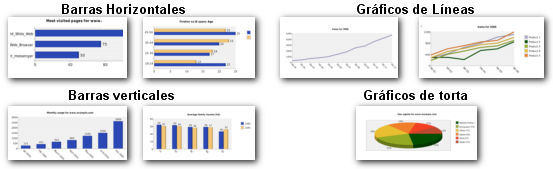
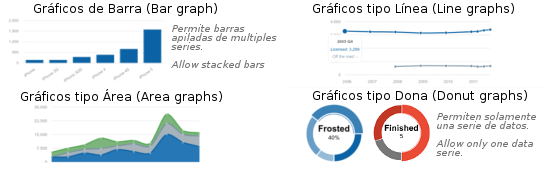
Modulo graficos. Personalizacion

diff --git a/core/informes.php b/core/informes.php
@@ -1404,9 +1404,8 @@ if ($PCO_Accion=="editar_informe")
 					<input type="Hidden" name="informe" value="<?php echo $informe; ?>">
 
 				<!-- SELECCION DE SERIES  @@@@@@@@@@@@@@@@@@@@@@@@@@@@@@@@@@@@@@@@@@@@@@@@@@@@@@@@@@@@@ -->
-				<hr>
 				<div align=center><b><?php echo $MULTILANG_InfSeriesGrafico1; ?></b> - <?php echo $MULTILANG_InfSeriesGrafico2; ?></div>
-						<table class="TextosVentana" width="100%">
+						<table class="table table-condensed btn-xs table-hover table-unbordered " width="100%">
 						<?php
 							//Consulta el formato de grafico y datos de series para ponerlo en los campos
 							//Dado por: Tipo|Nombre1!NombreN|Etiqueta1!EtiquetaN|Valor1!ValorN|
@@ -1425,12 +1424,17 @@ if ($PCO_Accion=="editar_informe")
 						?>
 							<tr>
 								<td align="center" valign="TOP">
-									<b><?php echo $MULTILANG_InfNomSerie?> <?php echo $cs; ?></b><br>
-									<input type="text" name="nombre_serie_<?php echo $cs; ?>" value="<?php echo @$lista_nombre_series[$cs-1]; ?>" maxlength="20" size="20" class="CampoTexto">
+									<label for="nombre_serie_<?php echo $cs; ?>"><?php echo $MULTILANG_InfNomSerie; ?> <?php echo $cs; ?>:</label>
+									<input type="text" name="nombre_serie_<?php echo $cs; ?>" id="nombre_serie_<?php echo $cs; ?>" value="<?php echo @$lista_nombre_series[$cs-1]; ?>" maxlength="20" size="20" class="form-control input-sm">
 								</td>
 								<td align="center" valign="TOP">
-									<b><?php echo $MULTILANG_InfCampoEtiqSerie; ?></b><br>
-									<select name="campo_etiqueta_serie_<?php echo $cs; ?>" class="Combos" >
+									<?php
+									    //La etiqueta de eje X es unica por todas las series entonces la pregunta solo para la primera
+									    if ($cs==1)
+									        {
+									?>
+									<label for="campo_etiqueta_serie_<?php echo $cs; ?>"><?php echo $MULTILANG_InfCampoEtiqSerie; ?>:</label>
+									<select name="campo_etiqueta_serie_<?php echo $cs; ?>" id="campo_etiqueta_serie_<?php echo $cs; ?>" class="form-control input-sm btn-info" >
 										<option value=""></option>
 										<?php
 										$consulta_forms=ejecutar_sql("SELECT id,".$ListaCamposSinID_informe_campos." FROM ".$TablasCore."informe_campos WHERE informe=? ","$informe");
@@ -1444,10 +1448,17 @@ if ($PCO_Accion=="editar_informe")
 											}
 									?>
 									</select>
+									<?php
+									        } //Fin $cs==1
+									   else
+									        {
+									            echo '<input type="hidden" name="campo_etiqueta_serie_'.$cs.'">';
+									        }
+									?>
 								</td>
 								<td align="center" valign="TOP">
-									<b><?php echo $MULTILANG_InfCampoValor; ?></b><br>
-									<select name="campo_valor_serie_<?php echo $cs; ?>" class="Combos">
+									<label for="campo_valor_serie_<?php echo $cs; ?>"><?php echo $MULTILANG_InfCampoValor; ?>:</label>
+									<select name="campo_valor_serie_<?php echo $cs; ?>" id="campo_valor_serie_<?php echo $cs; ?>" class="form-control input-sm btn-default" >
 										<option value=""></option>
 									<?php
 										$consulta_forms=ejecutar_sql("SELECT id,".$ListaCamposSinID_informe_campos." FROM ".$TablasCore."informe_campos WHERE informe=? ","$informe");
@@ -1472,33 +1483,53 @@ if ($PCO_Accion=="editar_informe")
 			<!-- SELECCION DEL TIPO DE GRAFICO  @@@@@@@@@@@@@@@@@@@@@@@@@@@@@@@@@@@@@@@@@@@@@@@@@@@@@@@@@@@@@ -->
 				<hr>
 						<div align=center><b><?php echo $MULTILANG_InfVistaGrafico1; ?></b> - <?php echo $MULTILANG_InfVistaGrafico2; ?></div>
-						<table class="TextosVentana">
+						<table class="table table-condensed btn-xs table-unbordered " width="100%">
 							<tr>
 								<td align="LEFT" valign="TOP">
-									<b><?php echo $MULTILANG_InfTipoGrafico; ?>:</b><br>
-									<select name="tipo_grafico" class="Combos" >
-											<option value="barrah" <?php if ($tipo_grafico_leido=="barrah") echo "SELECTED"; ?>><?php echo $MULTILANG_InfGrafico1; ?></option>
-											<option value="barrah_multiples" <?php if ($tipo_grafico_leido=="barrah_multiples") echo "SELECTED"; ?>><?php echo $MULTILANG_InfGrafico2; ?></option>
-											<option value="linea" <?php if ($tipo_grafico_leido=="linea") echo "SELECTED"; ?>><?php echo $MULTILANG_InfGrafico3; ?></option>
-											<option value="linea_multiples" <?php if ($tipo_grafico_leido=="linea_multiples") echo "SELECTED"; ?>><?php echo $MULTILANG_InfGrafico4; ?></option>
-											<option value="barrav" <?php if ($tipo_grafico_leido=="barrav") echo "SELECTED"; ?>><?php echo $MULTILANG_InfGrafico5; ?></option>
-											<option value="barrav_multiples" <?php if ($tipo_grafico_leido=="barrav_multiples") echo "SELECTED"; ?>><?php echo $MULTILANG_InfGrafico6; ?></option>
-											<option value="torta" <?php if ($tipo_grafico_leido=="torta") echo "SELECTED"; ?>><?php echo $MULTILANG_InfGrafico7; ?></option>
+									<label for="tipo_grafico"><?php echo $MULTILANG_InfTipoGrafico; ?>:</label>
+									<select name="tipo_grafico" id="tipo_grafico" class="form-control input-sm btn-danger" >
+											<option value="area" <?php if ($tipo_grafico_leido=="area") echo "SELECTED"; ?>><?php echo $MULTILANG_InfGrafico1; ?></option>
+											<option value="linea" <?php if ($tipo_grafico_leido=="linea") echo "SELECTED"; ?>><?php echo $MULTILANG_InfGrafico5; ?></option>
+											<option value="barra" <?php if ($tipo_grafico_leido=="barra") echo "SELECTED"; ?>><?php echo $MULTILANG_InfGrafico3; ?></option>
+											<option value="dona" <?php if ($tipo_grafico_leido=="dona") echo "SELECTED"; ?>><?php echo $MULTILANG_InfGrafico7; ?></option>
+									</select>
+
+									<label for="barra_apilada">Apilar (aplica solo barras):</label>
+									<select name="barra_apilada" id="barra_apilada" class="form-control input-sm btn-warning" >
+											<option value="false" <?php if ($XXXXXXX=="false") echo "SELECTED"; ?>><?php echo $MULTILANG_No; ?></option>
+											<option value="true" <?php if ($XXXXXXX=="true") echo "SELECTED"; ?>><?php echo $MULTILANG_Si; ?></option>
 									</select>
 								</td>
-								<td align="RIGHT">
-									<img src="img/tipos_grafico.png" border=0 alt="">
+								<td align="center">
+									<img src="img/tipos_grafico.png?<?php echo filemtime('img/tipos_grafico.png'); ?>" border=0 alt="">
+								</td>
+								<td align="LEFT" valign="TOP">
+									<label for="ocultar_grilla">Ocultar rejilla:</label>
+									<select name="ocultar_grilla" id="ocultar_grilla" class="form-control input-sm btn-warning" >
+											<option value="false" <?php if ($XXXXXXX=="false") echo "SELECTED"; ?>><?php echo $MULTILANG_No; ?></option>
+											<option value="true" <?php if ($XXXXXXX=="true") echo "SELECTED"; ?>><?php echo $MULTILANG_Si; ?></option>
+									</select>
+
+									<label for="ocultar_ejes">Ocultar ejes:</label>
+									<select name="ocultar_ejes" id="ocultar_ejes" class="form-control input-sm btn-warning" >
+											<option value="false" <?php if ($XXXXXXX=="false") echo "SELECTED"; ?>><?php echo $MULTILANG_No; ?></option>
+											<option value="true" <?php if ($XXXXXXX=="true") echo "SELECTED"; ?>><?php echo $MULTILANG_Si; ?></option>
+									</select>
+								</td>
+								<td align="LEFT" valign="TOP">
+									<label for="unidades_pre">Unidades pre-valor:</label>
+									<input type="text" name="unidades_pre" id="unidades_pre" value="<?php echo @$XXXXXXX; ?>" class="form-control input-sm">
+
+									<label for="unidades_pos">Unidades pos-valor:</label>
+									<input type="text" name="unidades_pos" id="unidades_pos" value="<?php echo @$XXXXXXX; ?>" class="form-control input-sm">
 								</td>
 							</tr>
 						</table>
 				</form>
-				<hr><center>
-				<input type="Button"  class="Botones" value="<?php echo $MULTILANG_InfActGraf; ?> >>>" onClick="document.datosformcograf.submit()">
-				<br><br><br>
-				</center>
 
                 <?php 
                     $barra_herramientas_modal='
+                        <button class="btn btn-success" onClick="document.datosformcograf.submit()"><i class="fa fa-save"></i> '.$MULTILANG_InfActGraf.'</button>
                         <button type="button" class="btn btn-default" data-dismiss="modal">'.$MULTILANG_Cerrar.' {<i class="fa fa-keyboard-o"></i> Esc}</button>';
                     cerrar_dialogo_modal($barra_herramientas_modal);
                 ?>

diff --git a/core/comunes.php b/core/comunes.php
@@ -5923,12 +5923,12 @@ function cargar_informe($informe,$en_ventana=1,$formato="htm",$estilo="Informes"
 								$tmp=explode(" AS ",$lista_valor_series[$i]);
 								$lista_valor_series[$i]=$tmp[1];
 							}
-					}
-				$nombre_serie_1=$lista_nombre_series[0];
-				$nombre_serie_2=$lista_nombre_series[1];
-				$nombre_serie_3=$lista_nombre_series[2];
-				$nombre_serie_4=$lista_nombre_series[3];
-				$nombre_serie_5=$lista_nombre_series[4];
+					} 
+				$nombre_serie_1=preg_replace('~[^a-zA-Z0-9_]~', '', str_replace ( " " , "_", $lista_nombre_series[0] ) );
+				$nombre_serie_2=preg_replace('~[^a-zA-Z0-9_]~', '', str_replace ( " " , "_", $lista_nombre_series[1] ) );
+				$nombre_serie_3=preg_replace('~[^a-zA-Z0-9_]~', '', str_replace ( " " , "_", $lista_nombre_series[2] ) );
+				$nombre_serie_4=preg_replace('~[^a-zA-Z0-9_]~', '', str_replace ( " " , "_", $lista_nombre_series[3] ) );
+				$nombre_serie_5=preg_replace('~[^a-zA-Z0-9_]~', '', str_replace ( " " , "_", $lista_nombre_series[4] ) );
 				$campo_etiqueta_serie_1=$lista_etiqueta_series[0];
 				$campo_etiqueta_serie_2=$lista_etiqueta_series[1];
 				$campo_etiqueta_serie_3=$lista_etiqueta_series[2];
@@ -5939,7 +5939,6 @@ function cargar_informe($informe,$en_ventana=1,$formato="htm",$estilo="Informes"
 				$campo_valor_serie_3=$lista_valor_series[2];
 				$campo_valor_serie_4=$lista_valor_series[3];
 				$campo_valor_serie_5=$lista_valor_series[4];
-
 				// CREA OBJETO SEGUN TIPO DE GRAFICO
 				$TipoObjetoGraficoMorris     = "Morris.Area";  //Por defecto define tipo Area para cualquiera de los definidos sin compatibilidad conocida
 				if ($tipo_grafico=="area")
@@ -5959,11 +5958,11 @@ function cargar_informe($informe,$en_ventana=1,$formato="htm",$estilo="Informes"
 				if ($nombre_serie_5!="") $CadenaLlaves.=",'$nombre_serie_5'";
 				
 				//Define la cadena de etiquetas para el grafico
-				$CadenaEtiquetas="'$campo_etiqueta_serie_1'";     //'Operaciones','Usuarios','UsoAPI'
-				if ($campo_etiqueta_serie_2!="") $CadenaEtiquetas.=",'$campo_etiqueta_serie_2'";
-				if ($campo_etiqueta_serie_3!="") $CadenaEtiquetas.=",'$campo_etiqueta_serie_3'";
-				if ($campo_etiqueta_serie_4!="") $CadenaEtiquetas.=",'$campo_etiqueta_serie_4'";
-				if ($campo_etiqueta_serie_5!="") $CadenaEtiquetas.=",'$campo_etiqueta_serie_5'";
+				$CadenaEtiquetas="'$nombre_serie_1'";     //'Operaciones','Usuarios','UsoAPI'
+				if ($nombre_serie_2!="") $CadenaEtiquetas.=",'$nombre_serie_2'";
+				if ($nombre_serie_3!="") $CadenaEtiquetas.=",'$nombre_serie_3'";
+				if ($nombre_serie_4!="") $CadenaEtiquetas.=",'$nombre_serie_4'";
+				if ($nombre_serie_5!="") $CadenaEtiquetas.=",'$nombre_serie_5'";
             ?>
                 <div id="marco-informe-grafico-ID<?php echo $registro_informe["id"]; ?>"></div>
                 <script language="JavaScript">
@@ -5973,7 +5972,6 @@ function cargar_informe($informe,$en_ventana=1,$formato="htm",$estilo="Informes"
                             //Nombre del marco que tiene el grafico
                             element: 'marco-informe-grafico-ID<?php echo $registro_informe["id"]; ?>',
                             data: [
-                                        
                             <?php
                                 //Inicia la generacion del arreglo con los datos
                                 $resultado_consulta=ejecutar_sql($consulta);
@@ -5985,35 +5983,36 @@ function cargar_informe($informe,$en_ventana=1,$formato="htm",$estilo="Informes"
                                         //Agrega datos al arreglo del grafico segun las series disponibles
 								        if ($nombre_serie_1 != "")
 								            {
-								                $NombreVisibleCampo=preg_replace('~[^a-zA-Z0-9_]+~', '', $registro_consulta[$campo_etiqueta_serie_1]);
+								                $NombreVisibleCampo=$registro_consulta[$campo_etiqueta_serie_1];
 								                $ValorVisibleCampo=$registro_consulta[$campo_valor_serie_1];
                                                 $cadena_datos.= "
-                                                ".$nombre_serie_1.": ".$ValorVisibleCampo;
+                                                ".$nombre_serie_1.": ".$ValorVisibleCampo.",
+                                                etiqueta_ejex: '$NombreVisibleCampo'";
 								            }
 								        if ($nombre_serie_2 != "")
 								            {
-								                $NombreVisibleCampo=preg_replace('~[^a-zA-Z0-9_]+~', '', $registro_consulta[$campo_etiqueta_serie_2]);
+								                $NombreVisibleCampo=$registro_consulta[$campo_etiqueta_serie_2];
 								                $ValorVisibleCampo=$registro_consulta[$campo_valor_serie_2];
                                                 $cadena_datos.= ",
                                                 ".$nombre_serie_2.": ".$ValorVisibleCampo;
 								            }
 								        if ($nombre_serie_3 != "")
 								            {
-								                $NombreVisibleCampo=preg_replace('~[^a-zA-Z0-9_]+~', '', $registro_consulta[$campo_etiqueta_serie_3]);
+								                $NombreVisibleCampo=$registro_consulta[$campo_etiqueta_serie_3];
 								                $ValorVisibleCampo=$registro_consulta[$campo_valor_serie_3];
                                                 $cadena_datos.= ",
                                                 ".$nombre_serie_3.": ".$ValorVisibleCampo;
 								            }
 								        if ($nombre_serie_4 != "")
 								            {
-								                $NombreVisibleCampo=preg_replace('~[^a-zA-Z0-9_]+~', '', $registro_consulta[$campo_etiqueta_serie_4]);
+								                $NombreVisibleCampo=$registro_consulta[$campo_etiqueta_serie_4];
 								                $ValorVisibleCampo=$registro_consulta[$campo_valor_serie_4];
                                                 $cadena_datos.= ",
                                                 ".$nombre_serie_4.": ".$ValorVisibleCampo;
 								            }
 								        if ($nombre_serie_5 != "")
 								            {
-								                $NombreVisibleCampo=preg_replace('~[^a-zA-Z0-9_]+~', '', $registro_consulta[$campo_etiqueta_serie_5]);
+								                $NombreVisibleCampo=$registro_consulta[$campo_etiqueta_serie_5];
 								                $ValorVisibleCampo=$registro_consulta[$campo_valor_serie_5];
                                                 $cadena_datos.= ",
                                                 ".$nombre_serie_5.": ".$ValorVisibleCampo;
@@ -6025,12 +6024,17 @@ function cargar_informe($informe,$en_ventana=1,$formato="htm",$estilo="Informes"
                                 echo $cadena_datos;
                             ?>
                             ],
-                            xkey: ['<?php echo $nombre_serie_1; ?>'],
+                            xkey: ['etiqueta_ejex'],
                             ykeys: [<?php echo $CadenaLlaves; ?>],
                             labels: [<?php echo $CadenaEtiquetas; ?>],
                             pointSize: 2,
                             hideHover: 'auto',
-                            resize: true
+                            resize: true,
+                            stacked: false,
+                            preUnits: '',
+                            postUnits: '',
+                            grid: true,
+                            axes: true
                         });
                     
                     });

diff --git a/inc/practico/idiomas/pt.php b/inc/practico/idiomas/pt.php
@@ -664,18 +664,15 @@
 	$MULTILANG_InfSeriesGrafico1='SERIES para o gr&aacute;fico';
 	$MULTILANG_InfSeriesGrafico2='V&aacute;rios gr&aacute;ficos da s&eacute;rie deve devolver o mesmo n&uacute;mero de r&oacute;tulos';
 	$MULTILANG_InfNomSerie='Nome da s&eacute;rie';
-	$MULTILANG_InfCampoEtiqSerie='Campo etiqueta';
+	$MULTILANG_InfCampoEtiqSerie='Campo etiqueta (eje X)';
 	$MULTILANG_InfCampoValor='Campo de valor (deve ser num&eacute;rico)';
 	$MULTILANG_InfVistaGrafico1='APARÊNCIA e distribuição';
 	$MULTILANG_InfVistaGrafico2='Escolha de acordo com o n&uacute;mero de s&eacute;rie desejada';
 	$MULTILANG_InfTipoGrafico='Tipo de gr&aacute;fico';
-	$MULTILANG_InfGrafico1='Barras horizontais';
-	$MULTILANG_InfGrafico2='Barras horizontais (v&aacute;rias s&eacute;ries)';
-	$MULTILANG_InfGrafico3='Gr&aacute;fico de linha';
-	$MULTILANG_InfGrafico4='Gr&aacute;fico de linha (s&eacute;rie m&uacute;ltipla)';
-	$MULTILANG_InfGrafico5='As barras verticais';
-	$MULTILANG_InfGrafico6='As barras verticais (s&eacute;rie m&uacute;ltipla)';
-	$MULTILANG_InfGrafico7='Gr&aacute;fico de pizza (apenas uma s&eacute;rie)';
+	$MULTILANG_InfGrafico1='Area';
+	$MULTILANG_InfGrafico3='Barra';
+	$MULTILANG_InfGrafico5='Linha';
+	$MULTILANG_InfGrafico7='Dona (apenas uma s&eacute;rie)';
 	$MULTILANG_InfActGraf='Formato de gr&aacute;fico atualização';
 	$MULTILANG_InfAgrupa='Especifica crit&eacute;rios de classificação e agrupamento';
 	$MULTILANG_InfReco3='Utilize apenas os campos definidos na consulta.';

diff --git a/inc/practico/idiomas/es.php b/inc/practico/idiomas/es.php
@@ -662,18 +662,15 @@
 	$MULTILANG_InfSeriesGrafico1='SERIES PARA EL GRAFICO';
 	$MULTILANG_InfSeriesGrafico2='Gr&aacute;ficos con m&uacute;ltiples series deben devolver el mismo n&uacute;mero de etiquetas';
 	$MULTILANG_InfNomSerie='Nombre de la Serie';
-	$MULTILANG_InfCampoEtiqSerie='Campo de etiqueta';
+	$MULTILANG_InfCampoEtiqSerie='Campo de etiqueta (Eje X)';
 	$MULTILANG_InfCampoValor='Campo de valor (debe ser num&eacute;rico)';
 	$MULTILANG_InfVistaGrafico1='APARIENCIA y DISTRIBUCION';
 	$MULTILANG_InfVistaGrafico2='Seleccione de acuerdo al n&uacute;mero de series deseadas';
 	$MULTILANG_InfTipoGrafico='Tipo de gr&aacute;fico';
-	$MULTILANG_InfGrafico1='Barras horizontales';
-	$MULTILANG_InfGrafico2='Barras horizontales (multiples series)';
-	$MULTILANG_InfGrafico3='Grafico de linea';
-	$MULTILANG_InfGrafico4='Grafico de linea (multiples series)';
-	$MULTILANG_InfGrafico5='Barras verticales';
-	$MULTILANG_InfGrafico6='Barras verticales (multiples series)';
-	$MULTILANG_InfGrafico7='Grafico de torta (solo una serie)';
+	$MULTILANG_InfGrafico1='Areas';
+	$MULTILANG_InfGrafico3='Barra';
+	$MULTILANG_InfGrafico5='Linea';
+	$MULTILANG_InfGrafico7='Dona (solo una serie)';
 	$MULTILANG_InfActGraf='Actualizar formato del gr&aacute;fico';
 	$MULTILANG_InfAgrupa='Especifica criterios de agrupaci&oacute;n y ordenamiento';
 	$MULTILANG_InfReco3='Utilice solamente campos definidos en su consulta.';

diff --git a/inc/practico/idiomas/en.php b/inc/practico/idiomas/en.php
@@ -664,18 +664,15 @@
 	$MULTILANG_InfSeriesGrafico1='SERIES FOR THE CHART';
 	$MULTILANG_InfSeriesGrafico2='Multiple series charts must return the same number of labels';
 	$MULTILANG_InfNomSerie='Series Name';
-	$MULTILANG_InfCampoEtiqSerie='Label Field';
+	$MULTILANG_InfCampoEtiqSerie='Label Field (X axis)';
 	$MULTILANG_InfCampoValor='Value field (must be numeric)';
 	$MULTILANG_InfVistaGrafico1='APPEARANCE and DISTRIBUTION';
 	$MULTILANG_InfVistaGrafico2='Select according to the number of desired series';
 	$MULTILANG_InfTipoGrafico='Chart type';
-	$MULTILANG_InfGrafico1='Horizontal Bars';
-	$MULTILANG_InfGrafico2='Horizontal Bars (multiple series)';
-	$MULTILANG_InfGrafico3='Line chart';
-	$MULTILANG_InfGrafico4='Line chart (multiple series)';
-	$MULTILANG_InfGrafico5='Vertical Bars';
-	$MULTILANG_InfGrafico6='Vertical Bars (multiple series)';
-	$MULTILANG_InfGrafico7='Pie chart (only one series)';
+	$MULTILANG_InfGrafico1='Area';
+	$MULTILANG_InfGrafico3='Line';
+	$MULTILANG_InfGrafico5='Bar';
+	$MULTILANG_InfGrafico7='Donut (only one series)';
 	$MULTILANG_InfActGraf='Update chart format';
 	$MULTILANG_InfAgrupa='Specifies sorting criteria and grouping';
 	$MULTILANG_InfReco3='Use only fields defined in your query.';

diff --git a/inc/practico/idiomas/hi.php b/inc/practico/idiomas/hi.php
@@ -670,11 +670,8 @@
 	$MULTILANG_InfVistaGrafico2='वांछित श्रृंखला की संख्या के हिसाब से चुनें';
 	$MULTILANG_InfTipoGrafico='चार्ट प्रकार';
 	$MULTILANG_InfGrafico1='क्षैतिज सलाखों';
-	$MULTILANG_InfGrafico2='क्षैतिज सलाखों (एकाधिक श्रृंखला)';
 	$MULTILANG_InfGrafico3='पंक्ति चार्ट';
-	$MULTILANG_InfGrafico4='रेखा चार्ट (एकाधिक श्रृंखला)';
 	$MULTILANG_InfGrafico5='ऊर्ध्वाधर सलाखों';
-	$MULTILANG_InfGrafico6='कार्यक्षेत्र बार्स (एकाधिक श्रृंखला)';
 	$MULTILANG_InfGrafico7='पाई चार्ट (केवल एक श्रृंखला)';
 	$MULTILANG_InfActGraf='अद्यतन चार्ट प्रारूप';
 	$MULTILANG_InfAgrupa='छँटाई मापदंड और समूह को निर्दिष्ट करता है';
